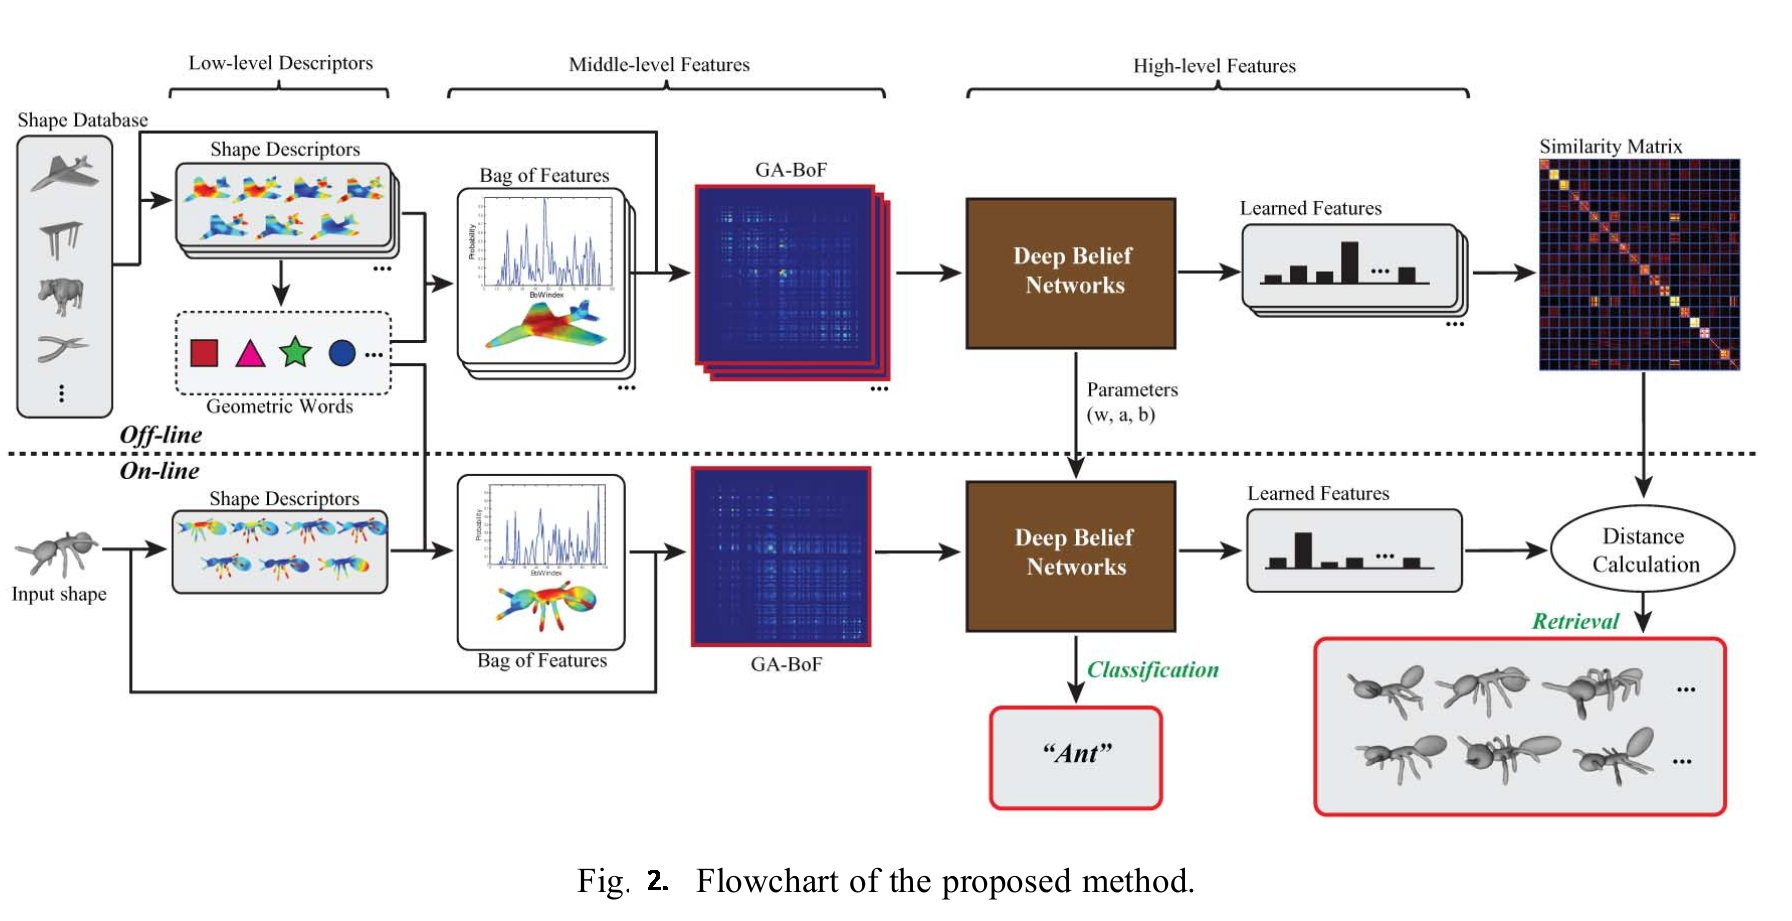
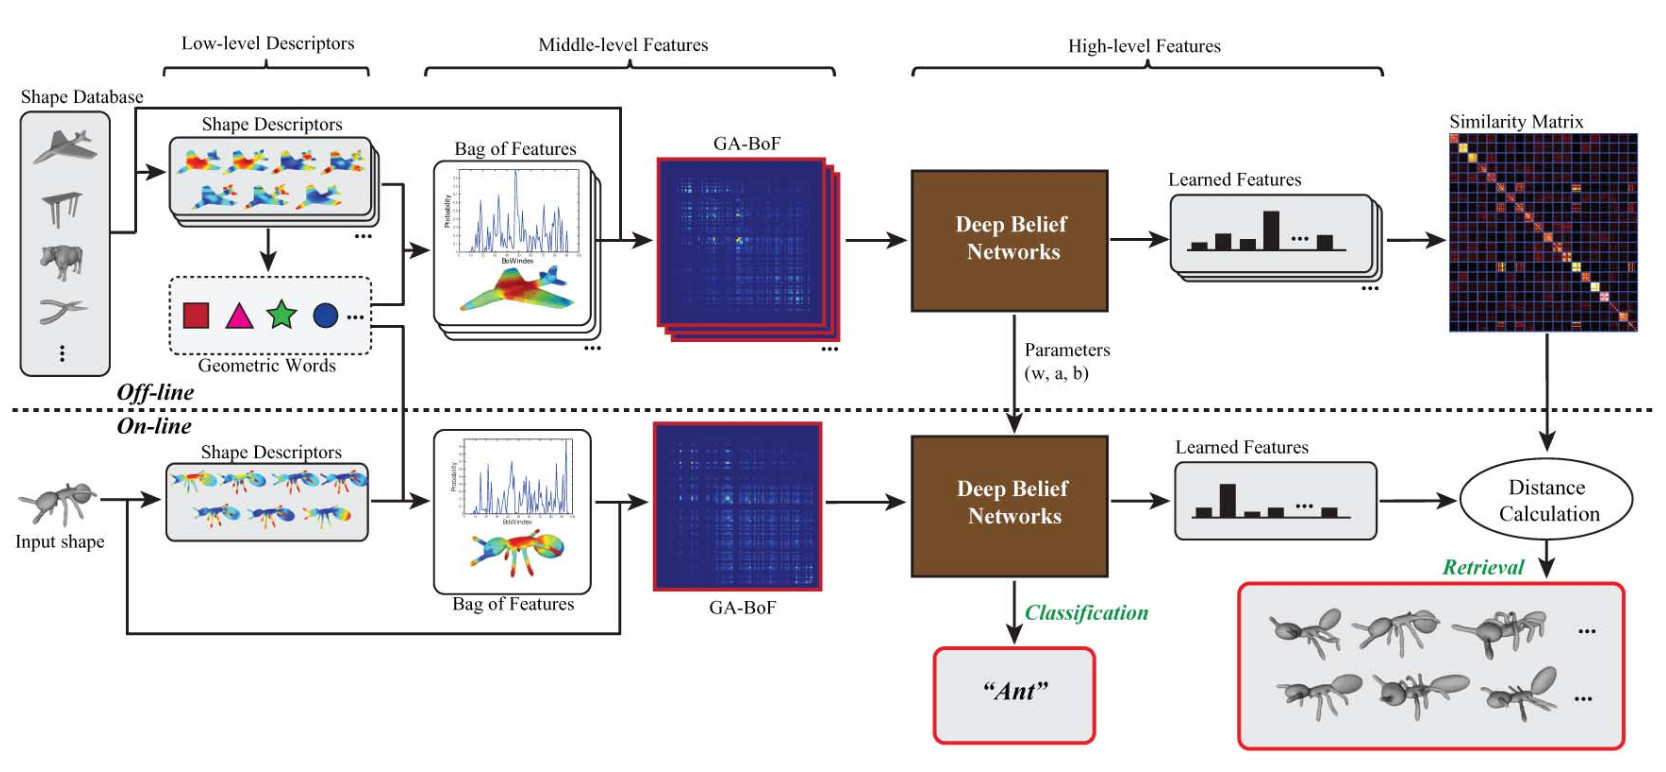
modify the image showing problem

Changed region(s): [[0.0, 0.0311, 0.9988, 0.9948], [0.5306, 0.0311, 0.8427, 0.1244]]

diff --git a/_posts/2017-04-09-3D CNN.md b/_posts/2017-04-09-3D CNN.md
@@ -10,6 +10,8 @@ tag: papers
 
 In this blog, I would make a summary of 3D shape retrieval.
 
+### Sketch based 3D Shape Retrieval
+
 * Wang F, Kang L, Li Y. Sketch-based 3d shape retrieval using convolutional neural networks[C]//Proceedings of the IEEE Conference on Computer Vision and Pattern Recognition. 2015: 1875-1883.
 
 {% include image.html url="/assets/3dShape/sketch_based3DShapeRetrieval.jpg" description="Fig. 1. Dimension reduction using Siamese network." %}
@@ -34,13 +36,14 @@ Short comings:
 
 ---
 
+### Learning high-level feature by deep belief networks for 3-D model retrieval and recognition
+
 * Bu S, Liu Z, Han J, et al. Learning high-level feature by deep belief networks for 3-D model retrieval and recognition[J]. IEEE Transactions on Multimedia, 2014, 16(8): 2154-2167.
 
 In this paper, the authors propose a multi-level 3D shape feature extraction framework by using deep learning. 
 
-![pipline]({{site.url}}/assets/3dShape/LearningHighLevelFeaturebyDeepBeliefNetwroksfor3DModel.jpg)
-
-
+<!-- ![pipline]({{site.url}}/assets/3dShape/LearningHighLevelFeaturebyDeepBeliefNetwroksfor3DModel.jpg) -->
+{% include image.html url="/assets/3dShape/LearningHighLevelFeaturebyDeepBeliefNetwroksfor3DModel.jpg" description="Fig. 2. Flowchart of the proposed method." %}
 ---
 
 * Xie J, Dai G, Zhu F, et al. DeepShape: Deep-Learned Shape Descriptor for 3D Shape Retrieval[J]. IEEE Transactions on Pattern Analysis and Machine Intelligence, 2016.
